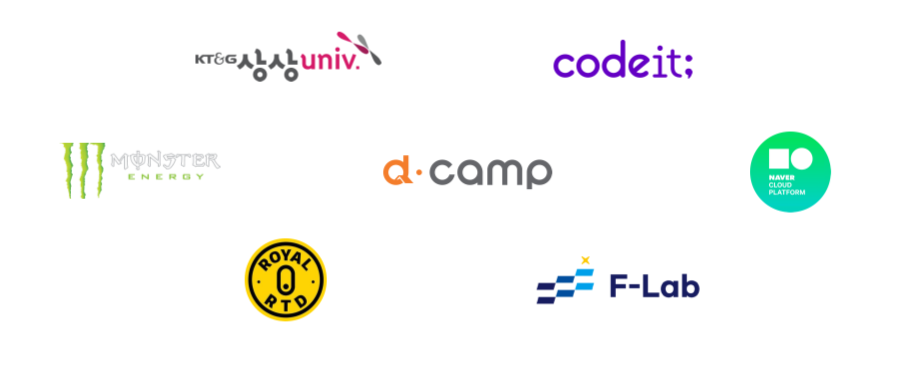
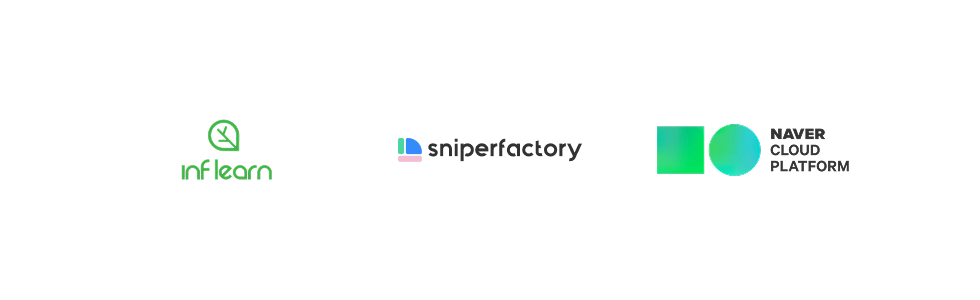
fix: QA 반영
- 기업 프로젝트 소개 사진 옆으로 눌림
- 홈페이지 하단바 블로그 버튼 연결 문제
- 파트너사 변경
- 프로젝트 카드 링크 카테고리 컨테이너 너비 고정
- 프로젝트 페이지 언마운트시 스크롤 위치 저장 후 다시 뒤로가기 할 때 보고 있던 스크롤로 이동하도록 하는 로직 구현

diff --git a/src/services/HttpClient.ts b/src/services/HttpClient.ts
@@ -1,5 +1,8 @@
 import axios from "axios";
 
+const CACHE_TTL = 60000; // 1분 (밀리초)
+const cache = new Map<string, { data: unknown; timestamp: number }>();
+
 const axiosInstance = axios.create({
   baseURL: process.env.REACT_APP_SERVER_BASE_ADDRESS,
   withCredentials: false,
@@ -7,7 +10,23 @@ const axiosInstance = axios.create({
 
 const HttpClient = {
   get: async (path: string, params = {}, headers = {}) => {
+    const cacheKey = `${path}?${new URLSearchParams(params as any).toString()}`;
+
+    if (cache.has(cacheKey)) {
+      const cachedData = cache.get(cacheKey);
+      if (cachedData && Date.now() - cachedData.timestamp < CACHE_TTL) {
+        console.log("✅ 캐시된 응답 사용:", cacheKey);
+        return cachedData.data;
+      } else {
+        cache.delete(cacheKey); // TTL이 초과된 경우 삭제
+      }
+    }
+
     const response = await axiosInstance.get(path, { params, headers });
+
+    cache.set(cacheKey, { data: response.data, timestamp: Date.now() });
+    console.log("🚀 새로운 요청 수행 & 캐시 저장:", cacheKey);
+
     return response.data;
   },
 
@@ -29,6 +48,17 @@ const HttpClient = {
   delete: async (path: string, headers = {}) => {
     const response = await axiosInstance.delete(path, { headers });
     return response.data;
+  },
+
+  clearCache: () => {
+    cache.clear();
+    console.log("🗑 모든 캐시 삭제");
+  },
+
+  removeCache: (path: string, params = {}) => {
+    const cacheKey = `${path}?${new URLSearchParams(params as any).toString()}`;
+    cache.delete(cacheKey);
+    console.log(`🗑 캐시 삭제: ${cacheKey}`);
   },
 };
 

diff --git a/src/pages/Main/MainPage.tsx b/src/pages/Main/MainPage.tsx
@@ -7,7 +7,7 @@ import styled, { keyframes } from "styled-components";
 import AOS from "aos";
 import "aos/dist/aos.css";
 import "animate.css/animate.min.css";
-// import { useIsMobile } from "hooks/useIsMobile";
+import { useIsMobile } from "hooks/useIsMobile";
 
 import mainImage from "../../images/main/main-image.svg";
 // import mainImageMobile from "../../images/main/mobile/main-image.png";
@@ -230,7 +230,7 @@ const INTRODUCE_ACTIVITIES = [
 // ];
 
 const MainPage = () => {
-  // const isMobile = useIsMobile();
+  const isMobile = useIsMobile();
   const [isInView, setIsInView] = useState(false);
   const { ref, inView } = useInView({ threshold: 0.5 });
 
@@ -645,6 +645,24 @@ const MainPage = () => {
   //   );
   // }
 
+  if (isMobile) {
+    return (
+      <Layout>
+        <MainContainer>
+          <p style={{ textAlign: "center", color: "white" }}>
+            현재 서비스 개편 중에 있어
+            <br />
+            모바일 화면으로는 이용이 불가능합니다.
+            <br />
+            테블릿이나 PC를 이용해 주세요.
+            <br />
+            불편을 드려 죄송합니다.
+          </p>
+        </MainContainer>
+      </Layout>
+    );
+  }
+
   return (
     <Layout>
       <MainContainer>
@@ -1019,7 +1037,7 @@ const fadeInTop = keyframes`
     }
 `;
 
-const MainContainer = styled.div`
+export const MainContainer = styled.div`
   display: flex;
   flex-direction: column;
   align-items: center;

diff --git a/src/pages/Recruit/RecruitPage.tsx b/src/pages/Recruit/RecruitPage.tsx
@@ -1,7 +1,7 @@
 import React, { useState } from "react";
 import Layout from "components/Layout";
 import styled from "styled-components";
-// import { useIsMobile } from "hooks/useIsMobile";
+import { useIsMobile } from "hooks/useIsMobile";
 
 import polygon from "../../images/recruit/Polygon.svg";
 import book from "../../images/recruit/apply-book.svg";
@@ -14,6 +14,7 @@ import ranking from "../../images/recruit/apply-ranking.svg";
 
 import RecruitProcess from "components/recruit/RecruitProcess";
 import RecruitAccordion from "components/recruit/RecriutAccordion";
+import { useNavigate } from "react-router-dom";
 
 interface applyType {
   icon: string;
@@ -139,7 +140,8 @@ const QNA = [
 ];
 const RecruitPage = () => {
   const [active, setActive] = useState<number | null>(null);
-  // const isMobile = useIsMobile();
+  const isMobile = useIsMobile();
+  const navigate = useNavigate();
 
   const WHO_APPLY = [
     {
@@ -155,6 +157,10 @@ const RecruitPage = () => {
       text: "활동 기간 동안 팀 모임에\n적극적으로 참석 가능한 분",
     },
   ];
+
+  if (isMobile) {
+    navigate("/");
+  }
 
   // const WHO_APPLY = [
   //   {

diff --git a/src/pages/Reviews/ReviewsPage.tsx b/src/pages/Reviews/ReviewsPage.tsx
@@ -2,7 +2,8 @@ import Layout from "components/Layout";
 import React, { useState, useEffect } from "react";
 import axios from "axios";
 import styled from "styled-components";
-// import { useIsMobile } from "hooks/useIsMobile";
+import { useIsMobile } from "hooks/useIsMobile";
+import { useNavigate } from "react-router-dom";
 
 interface reviewListType {
   name: string;
@@ -43,7 +44,8 @@ const Reviews = () => {
   const [lists, setLists] = useState<reviewListType[]>([]);
   const [data, setData] = useState<reviewListType[]>([]);
   const [btn, setBtn] = useState<string>("전체");
-  // const isMobile = useIsMobile();
+  const isMobile = useIsMobile();
+  const navigate = useNavigate();
 
   const onClick = (event: React.FormEvent<HTMLButtonElement>) => {
     const {
@@ -96,6 +98,10 @@ const Reviews = () => {
       return null;
     });
   });
+
+  if (isMobile) {
+    navigate("/");
+  }
 
   // if (isMobile) {
   //   return (
@@ -315,7 +321,7 @@ const PartsBtn = styled.button`
   border: none;
 
   font-size: 20px;
-  line-weight: 25px;
+  line-height: 25px;
   font-family: "SUIT";
   font-weight: 600;
   color: #ffffff;

diff --git a/src/hooks/useScrollRestoration.tsx b/src/hooks/useScrollRestoration.tsx
@@ -1,0 +1,29 @@
+import { useEffect } from "react";
+import { useLocation } from "react-router-dom";
+
+const useScrollRestoration = () => {
+  const location = useLocation();
+
+  useEffect(() => {
+    const handleBeforeUnload = () => {
+      sessionStorage.setItem("scrollPosition", window.scrollY.toString());
+    };
+
+    // 페이지를 벗어나기 전 스크롤 위치 저장
+    window.addEventListener("beforeunload", handleBeforeUnload);
+
+    return () => {
+      window.removeEventListener("beforeunload", handleBeforeUnload);
+    };
+  }, []);
+
+  useEffect(() => {
+    // 뒤로 가기 또는 새로고침 시 저장된 스크롤 위치로 복원
+    const savedPosition = sessionStorage.getItem("scrollPosition");
+    if (savedPosition) {
+      window.scrollTo(0, parseInt(savedPosition, 10));
+    }
+  }, [location]);
+};
+
+export default useScrollRestoration;

diff --git a/src/pages/Projects/ProjectsPage.tsx b/src/pages/Projects/ProjectsPage.tsx
@@ -17,7 +17,9 @@ import meetup_tmpImg from "../../images/projects/tmp/meetup_tmpImg.jpeg";
 import CompanyProjectCard from "components/CompanyProjectCard";
 import ProjectsAPI from "api/ProjectsAPI";
 import ProjectDetail from "pages/ProjectDetail";
-// import { useIsMobile } from "hooks/useIsMobile";
+import { useIsMobile } from "hooks/useIsMobile";
+import { useNavigate } from "react-router-dom";
+import useScrollRestoration from "hooks/useScrollRestoration";
 // import M_ImageSticker from "components/m_ImageSticker";
 
 export interface IMeetupList {
@@ -155,7 +157,14 @@ const ProjectsPage = () => {
       });
   }, [selectedMeetupId]);
 
-  // const isMobile: boolean = useIsMobile();
+  useScrollRestoration();
+
+  const isMobile: boolean = useIsMobile();
+  const navigate = useNavigate();
+
+  if (isMobile) {
+    navigate("/");
+  }
 
   // if (isMobile) {
   //   return (

diff --git a/src/components/Footer.tsx b/src/components/Footer.tsx
@@ -41,7 +41,7 @@ const SNSGROUPS = [
   },
   {
     img: iconBlog,
-    link: "https://blog.naver.com/kusitms10",
+    link: "https://blog.naver.com/kusitms28",
   },
   {
     img: iconGithub,

diff --git a/src/components/CompanyProjectCard/styles.ts b/src/components/CompanyProjectCard/styles.ts
@@ -63,6 +63,7 @@ export const CategoryBoxContainer = styled.div`
   position: absolute;
   flex-direction: row;
   bottom: 50px;
+  width: 150px;
 `;
 
 export const CategoryBox = styled.div`

diff --git a/src/components/ImageSticker/styles.ts b/src/components/ImageSticker/styles.ts
@@ -29,4 +29,5 @@ export const ImgContent = styled.img`
   width: 446px;
   height: 360px;
   display: flex;
+  object-fit: cover;
 `;
